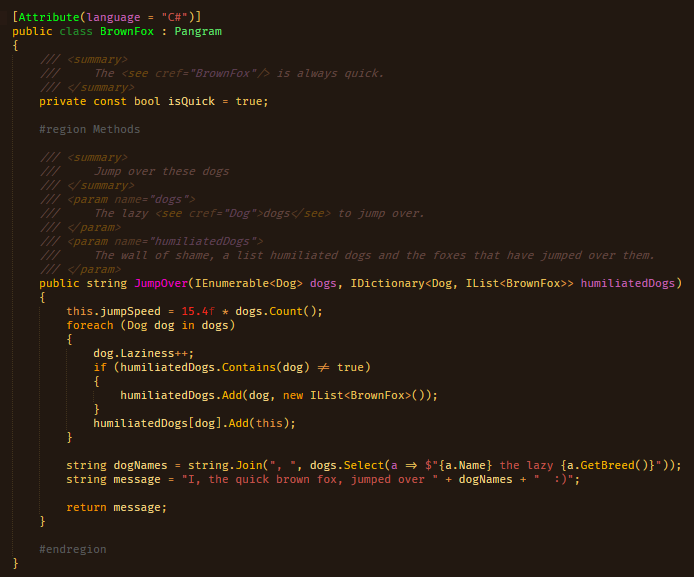
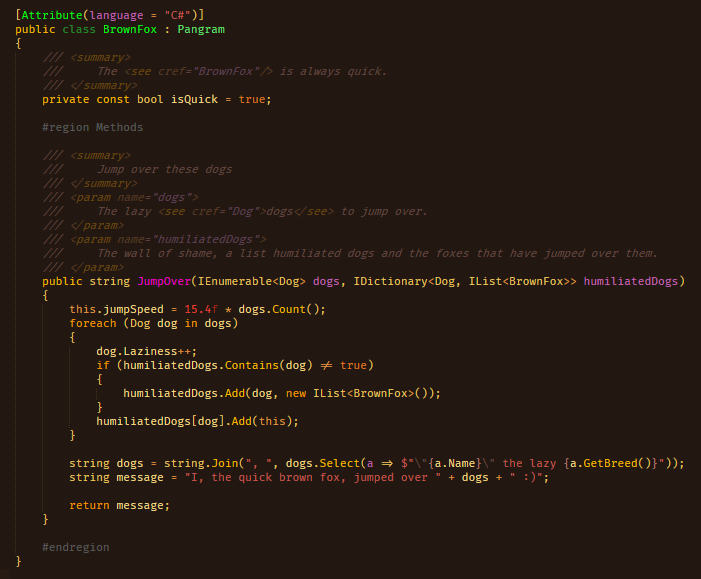
Updating C# and rust screenshots

diff --git a/screenshots/BrownFox.cs b/screenshots/BrownFox.cs
@@ -31,8 +31,8 @@ public class BrownFox : Pangram
             humiliatedDogs[dog].Add(this);
         }
 
-        string dogNames = string.Join(", ", dogs.Select(a => $"{a.Name} the lazy {a.GetBreed()}"));
-        string message = "I, the quick brown fox, jumped over " + dogNames + "  :)";
+        string dogs = string.Join(", ", dogs.Select(a => $"\"{a.Name}\" the lazy {a.GetBreed()}"));
+        string message = "I, the quick brown fox, jumped over " + dogs + " :)";
 
         return message;
     }

diff --git a/screenshots/rust.rs b/screenshots/rust.rs
@@ -9,6 +9,7 @@ struct Fox {
 
 impl Fox {
     fn new(name: String) -> Fox {
+        println!("Creating a new fox named {:?}", name);
         Fox {
             is_quick: true,
             name: name,
